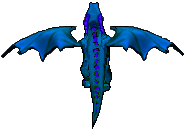
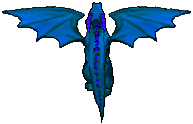
updated dragon assets

diff --git a/core/src/com/dragons/game/utilities/AssetLoader.java b/core/src/com/dragons/game/utilities/AssetLoader.java
@@ -16,24 +16,24 @@ public class AssetLoader {
 
     @AnnotationAssetManager.Asset(Texture.class)
     public static final String
-            DRAGON_SLIM_RED = "red_dragon_slim-1.png",
-            DRAGON_MIDDLE_RED = "red_dragon_middle-1.png",
-            DRAGON_WIDE_RED = "red_dragon_wide-1.png",
+            DRAGON_SLIM_RED = "r3.png",
+            DRAGON_MIDDLE_RED = "r2.png",
+            DRAGON_WIDE_RED = "r1.png",
 
-    /*
-            DRAGON_SLIM_BLUE = "",
-            DRAGON_MIDDLE_BLUE = "",
-            DRAGON_WIDE_BLUE = "",
 
-            DRAGON_SLIM_GREEN = "",
-            DRAGON_MIDDLE_GREEN = "",
-            DRAGON_WIDE_GREEN = "",
+            DRAGON_SLIM_BLUE = "b3.png",
+            DRAGON_MIDDLE_BLUE = "b2.png",
+            DRAGON_WIDE_BLUE = "b1.png",
 
-            DRAGON_SLIM_YELLOW = "",
-            DRAGON_MIDDLE_YELLOW = "",
-            DRAGON_WIDE_YELLOW = "",
+            DRAGON_SLIM_GREEN = "g3.png",
+            DRAGON_MIDDLE_GREEN = "g2.png",
+            DRAGON_WIDE_GREEN = "g1.png",
 
-     */
+            DRAGON_SLIM_YELLOW = "y3.png",
+            DRAGON_MIDDLE_YELLOW = "y2.png",
+            DRAGON_WIDE_YELLOW = "y1.png",
+
+
 
 
             /****************** BLOCKS *******************/
